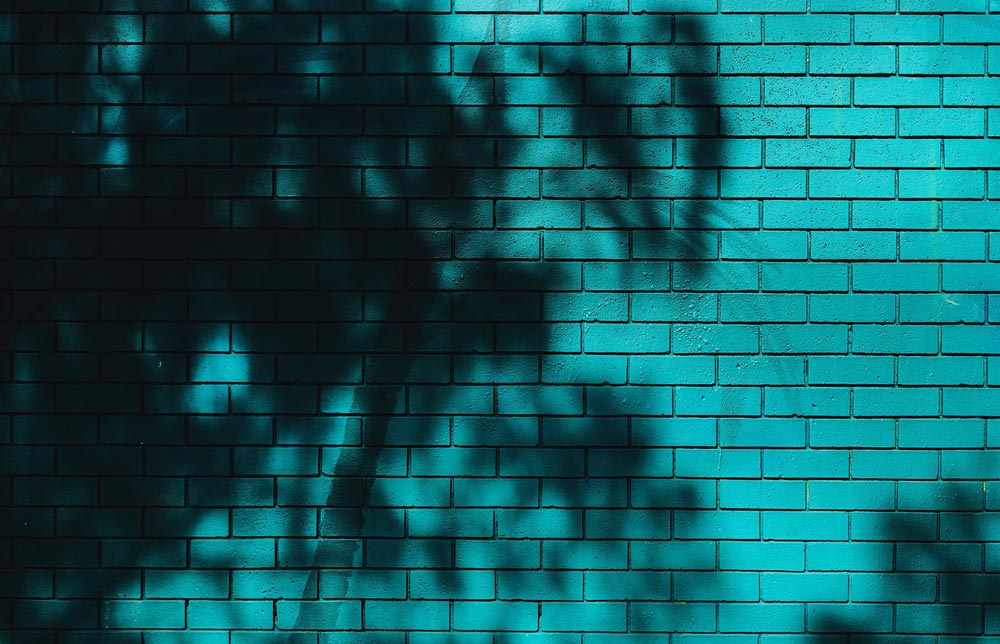
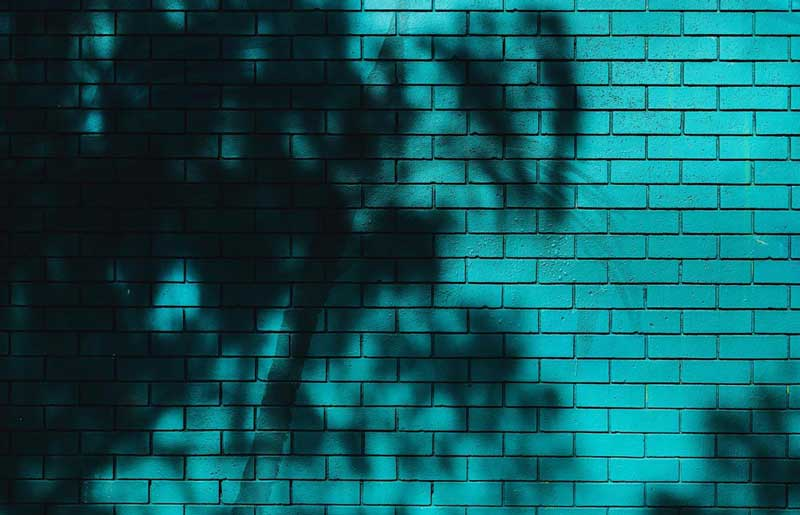
optmized images for sm devices

diff --git a/style.css b/style.css
@@ -315,9 +315,8 @@ nav, section, aside, header,h1,h2,h3,h4,h5,h6 {
      transition:.5s all;
 }
  .second-page {
-
  	border-top:5px solid black;
-     background:url("img-optimized/romb.png") #0A0A0B no-repeat 10vw 100%;
+     background:url("img-optimized/sm-sizes/romb.png") #0A0A0B no-repeat 10vw 100%;
      background-size:1300px;
      overflow:hidden;
 
@@ -443,9 +442,8 @@ nav, section, aside, header,h1,h2,h3,h4,h5,h6 {
  background:url("img-optimized/stars.png");
  display:block;
  opacity:0.1;
-      z-index:-1;
-          animation: starPulse 3s infinite alternate;
-
+ z-index:-1;
+ animation: starPulse 3s infinite alternate;
 }
  .clearfix {
      clear: both;
@@ -557,6 +555,8 @@ nav, section, aside, header,h1,h2,h3,h4,h5,h6 {
      text-decoration:none;
      color:white;
 }
+
+/* Reminder: add the images in <img> tags in html to improve seo; */
  .portofolio1 {
      background:url("img-optimized/portofolio1.jpg") center no-repeat;
      background-size:cover;
@@ -660,14 +660,26 @@ nav, section, aside, header,h1,h2,h3,h4,h5,h6 {
  .fifth-page .overlay {
      opacity:.7;
 }
+
+
+@media all and (min-width:800px) {
  .fifth-page .overlay:before {
      background:url("img-optimized/wall.jpg") center;
      background-size:cover;
+}
+}
+@media all and (max-width:800px) {
+
+	 .fifth-page .overlay:before {
+     background:url("img-optimized/sm-sizes/wall_sm_size.jpg") center; /*reduced size*/
+     background-size:cover;
+}
 }
  .fifth-page .home-text {
      color:#DDDADA;
      width:80%;
      border:5px solid #DB123D;
+}
 }
  .fifth-page .home-text p {
      width:100%;

diff --git a/index.html b/index.html
@@ -103,22 +103,22 @@
                   </p>
                   <section class="logos">
                      <figure>
-                        <img src="img-optimized/html.png">
+                        <img src="img-optimized/html.png" alt="html logo">
                      </figure>
                      <figure>
-                        <img src="img-optimized/css.png">
+                        <img src="img-optimized/css.png" alt="css logo">
                      </figure>
                      <figure>
-                        <img src="img-optimized/js.png">
+                        <img src="img-optimized/js.png" alt="javascript logo">
                      </figure>
                      <figure>
-                        <img src="img-optimized/wordpress.png">
+                        <img src="img-optimized/wordpress.png" alt="wordpress logo">
                      </figure>
                      <figure>
-                        <img src="img-optimized/jquery.png">
+                        <img src="img-optimized/jquery.png" alt="jquery logo">
                      </figure>
                      <figure>
-                        <img src="img-optimized/bootstrap.png">
+                        <img src="img-optimized/bootstrap.png" alt="bootstrap logo">
                      </figure>
                   </section>
                   <!-- end logos -->
